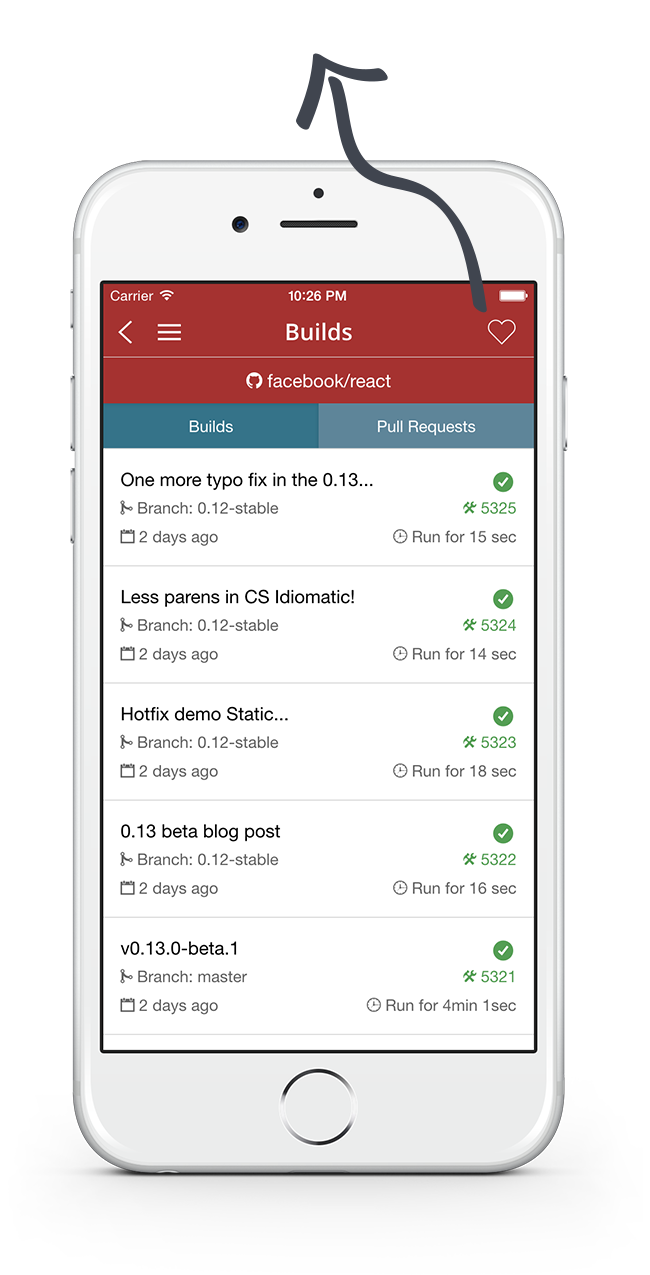
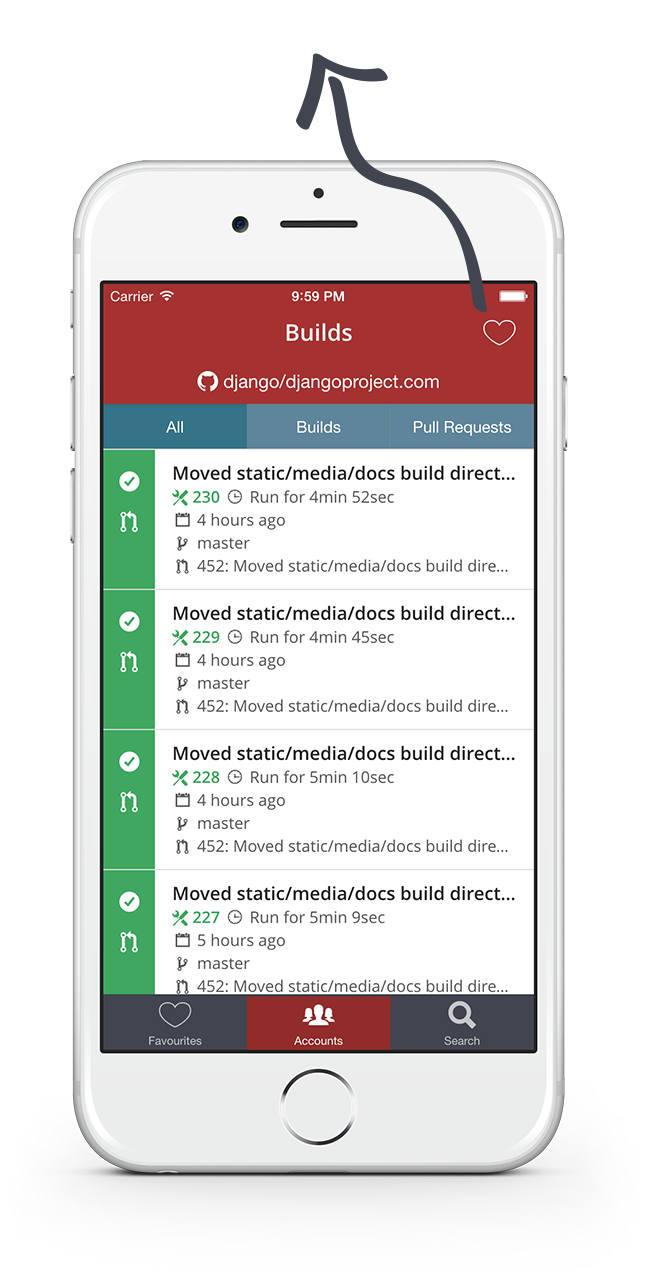
Update favourites mockup

diff --git a/www/js/controllers/favourites.js b/www/js/controllers/favourites.js
@@ -32,6 +32,9 @@ angular.module('controller.favourites', ['ionic'])
 
                     });
             });
+        } else {
+            // Stop the ion-refresher from spinning
+            $scope.$broadcast('scroll.refreshComplete');
         }
     };
 
